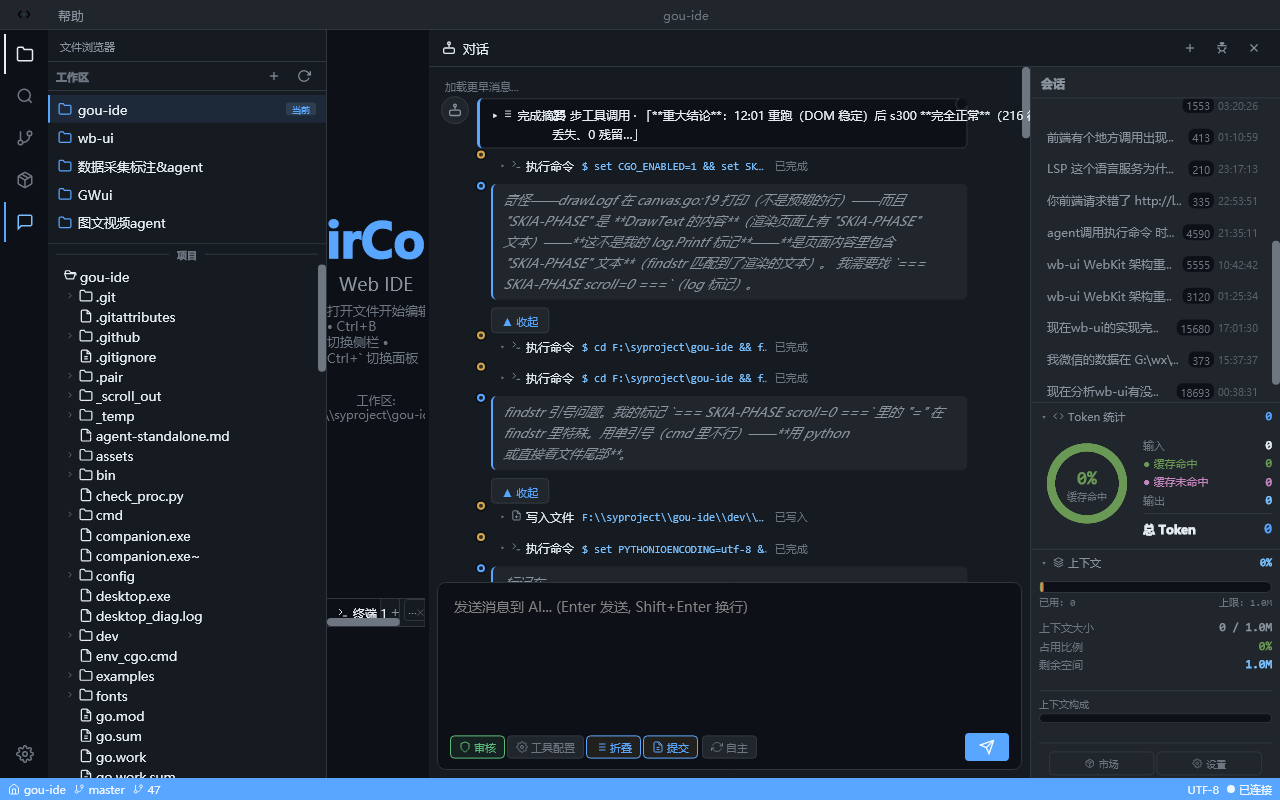
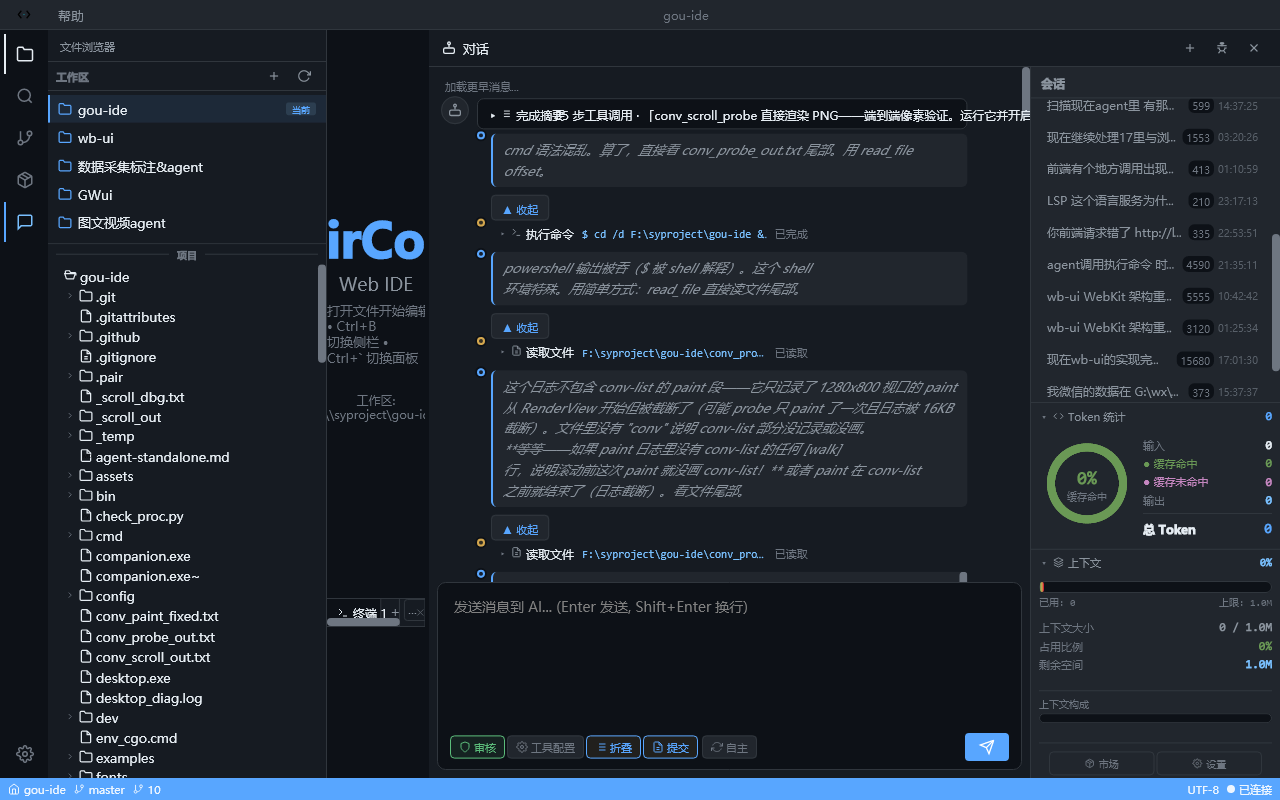
auto: fix: CalculateRects 滚动裁剪坐标系修正（hasClip 标志 +

diff --git a/dev/desktop_probe/layer_diag_probe.go b/dev/desktop_probe/layer_diag_probe.go
@@ -1,0 +1,187 @@
+// Command layer_diag_probe: prints the render-layer tree around conv-list,
+// each layer's owner class, CalculateRects() clip, and the box scroll offset —
+// BEFORE and AFTER SetBoxScrollOffset(300). Used to diagnose why scrolled
+// conv-item / conv-title child layers end up clipped at the wrong position.
+package main
+
+import (
+	"fmt"
+	"log"
+	"os"
+	"path/filepath"
+	"regexp"
+	"strings"
+
+	"wb-ui/dom"
+	"wb-ui/layout"
+	"wb-ui/platform/graphics"
+	"wb-ui/rendering"
+	"wb-ui/webkit"
+
+	"github.com/hoonfeng/paircode/internal/desktopbridge"
+)
+
+func setupLoaders(wv *webkit.WebView, distDir string) {
+	absDist, _ := filepath.Abs(distDir)
+	if mf := wv.MainFrame(); mf != nil {
+		if fr := mf.Frame(); fr != nil {
+			fr.ScriptLoader = func(src string) (string, error) {
+				clean := strings.TrimPrefix(strings.TrimPrefix(src, "file://"), "./")
+				data, err := os.ReadFile(filepath.Join(absDist, clean))
+				return string(data), err
+			}
+			fr.StyleSheetLoader = func(href string) (string, error) {
+				clean := strings.TrimPrefix(strings.TrimPrefix(href, "file://"), "./")
+				data, err := os.ReadFile(filepath.Join(absDist, clean))
+				if err != nil {
+					return "", err
+				}
+				re := regexp.MustCompile(`\[data-v-[a-f0-9]+\]`)
+				return re.ReplaceAllString(string(data), ""), nil
+			}
+		}
+	}
+}
+
+func clsOf(el *dom.Element) string {
+	if el == nil {
+		return ""
+	}
+	return el.GetAttribute("class")
+}
+
+func asRB(o rendering.RenderObject) *rendering.RenderBox {
+	switch v := o.(type) {
+	case *rendering.RenderBox:
+		return v
+	case *rendering.RenderBlock:
+		return &v.RenderBox
+	case *rendering.RenderBlockFlow:
+		return &v.RenderBlock.RenderBox
+	}
+	return nil
+}
+
+func main() {
+	log.SetFlags(log.Ltime | log.Lshortfile)
+	wd, _ := os.Getwd()
+	distDir := filepath.Join(wd, "cmd", "companion", "web-ui", "dist")
+	htmlData, err := os.ReadFile(filepath.Join(distDir, "index.html"))
+	if err != nil {
+		log.Fatalf("read index.html: %v", err)
+	}
+	if graphics.GetFontManager() == nil {
+		_ = graphics.InitFontManager("")
+		if mgr := graphics.GetFontManager(); mgr != nil {
+			mgr.LoadSystemFonts()
+		}
+	}
+	layout.MeasureTextFunc = func(family string, size float64, weight int, style2, text string) float64 {
+		return graphics.MeasureText(graphics.Font{Family: family, Size: size, Weight: weight, Style: style2}, text)
+	}
+	layout.FontMetricsFunc = func(family string, size float64, weight int, style2 string) (float64, float64, float64) {
+		f := graphics.Font{Family: family, Size: size, Weight: weight, Style: style2}
+		return graphics.GlobalFontAscent(f), graphics.GlobalFontDescent(f), graphics.GlobalFontLineGap(f)
+	}
+
+	wv := webkit.NewWebView()
+	setupLoaders(wv, distDir)
+	_ = wv.JSInterpreter()
+	desktopbridge.Init(wv)
+	wv.LoadHTML(string(htmlData))
+	for i := 0; i < 8; i++ {
+		_, _ = wv.JSInterpreter().RunJS(`new Promise(function(res){ setTimeout(res, 500); })`)
+	}
+	_, _ = wv.JSInterpreter().RunJS(`new Promise(function(res){ setTimeout(res, 800); })`)
+	wv.RebuildRenderTree()
+	wv.EnsureLayout()
+	rv := wv.RenderView()
+	if rv == nil {
+		log.Fatal("no render view")
+	}
+
+	// Find the conv-list render box.
+	var list *rendering.RenderBox
+	var walk func(o rendering.RenderObject)
+	walk = func(o rendering.RenderObject) {
+		if o == nil || list != nil {
+			return
+		}
+		if rb := asRB(o); rb != nil && rb.Style() != nil {
+			if n := rb.Node(); n != nil {
+				if el, ok := n.(*dom.Element); ok && clsOf(el) == "conv-list" {
+					list = rb
+					return
+				}
+			}
+		}
+		for c := o.FirstChild(); c != nil; c = c.NextSibling() {
+			walk(c)
+		}
+	}
+	walk(rendering.RenderObject(rv))
+	if list == nil {
+		log.Fatal("no conv-list")
+	}
+	log.Printf("conv-list frame=%.0f,%.0f %.0fx%.0f", list.X(), list.Y(), list.Width(), list.Height())
+
+	dump := func(tag string) {
+		root := rv.RootLayer()
+		fmt.Printf("\n===== %s =====\n", tag)
+		// Find layer owned by conv-list box, then print its subtree.
+		var printLayer func(l *rendering.RenderLayer, depth int)
+		printLayer = func(l *rendering.RenderLayer, depth int) {
+			name := "?"
+			if l.Owner() != nil {
+				if n := l.Owner().Node(); n != nil {
+					if el, ok := n.(*dom.Element); ok && el != nil {
+						name = el.LocalName() + "." + clsOf(el)
+					} else {
+						name = fmt.Sprintf("%T", l.Owner())
+					}
+				}
+			}
+			_, clip := l.CalculateRects()
+			box := asRB(l.Owner())
+			sx, sy := 0.0, 0.0
+			if box != nil {
+				sx, sy = rv.BoxScrollOffset(box)
+			}
+			fmt.Printf("%s%s layer owner=%s box=%.0f,%.0f %.0fx%.0f clip=%.0f,%.0f %.0fx%.0f scroll=(%.0f,%.0f)\n",
+				strings.Repeat("  ", depth), "▸", name,
+				box.X(), box.Y(), box.Width(), box.Height(),
+				clip.X, clip.Y, clip.Width, clip.Height, sx, sy)
+			for c := l.FirstChild(); c != nil; c = c.NextSibling() {
+				printLayer(c, depth+1)
+			}
+		}
+		// locate conv-list layer
+		var findLayer func(l *rendering.RenderLayer) *rendering.RenderLayer
+		findLayer = func(l *rendering.RenderLayer) *rendering.RenderLayer {
+			if l == nil || l.Owner() == nil {
+				return nil
+			}
+			if n := l.Owner().Node(); n != nil {
+				if el, ok := n.(*dom.Element); ok && el != nil && clsOf(el) == "conv-list" {
+					return l
+				}
+			}
+			for c := l.FirstChild(); c != nil; c = c.NextSibling() {
+				if r := findLayer(c); r != nil {
+					return r
+				}
+			}
+			return nil
+		}
+		cl := findLayer(root)
+		if cl == nil {
+			fmt.Println("conv-list layer NOT FOUND")
+			return
+		}
+		printLayer(cl, 0)
+	}
+
+	dump("before scroll")
+	rv.SetBoxScrollOffset(list, 0, 300)
+	dump("after scroll 300")
+}
